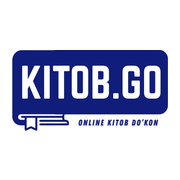
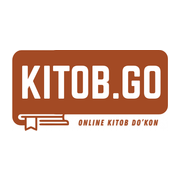
logotipni sayt rangiga moslashtirish
Belgi manbada to'q ko'k (#111D7A) edi — krem + terrakota saytda uchinchi rang
bo'lib turardi. Endi u cocoa (#A34A24), ya'ni havolalar va narxlar bilan bir xil
urg'u rangida; ichidagi oq yozuv o'z holicha qoldi.

Rang almashtirish silliqlangan chetlarni buzmaydi: har bir piksel oq va ko'kning
aralashmasi sifatida o'lchanib, o'sha nisbat oq ↔ yangi rang aralashmasiga
ko'chiriladi. Favicon va apple-touch-icon ham qaytadan chiqarildi.

Endi logotip palitraga bog'liq: cocoa qiymati o'zgarsa, rasmni ham qayta
chiqarish kerak — PROGRESS.md da usuli bilan yozib qo'yildi.

Changed region(s): [[0.0556, 0.2778, 0.9444, 0.7222]]

diff --git a/PROGRESS.md b/PROGRESS.md
@@ -63,9 +63,7 @@ katta-harfli yorliqlar uchun `.micro-label` (sans, 11.5px, letter-spacing 1.0) v
 ### Logotip
 
 [components/layout/Logo.tsx](components/layout/Logo.tsx) → `public/images/logo.png`
-(384×200, shaffof fon). Manba `C:\Users\USER\Desktop\logo.PNG` (500×500, **oq** fonli):
-oq fon chekkadan flood fill bilan olib tashlangan — harflar ichidagi oq saqlanib qolgan —
-va chetlari kesilgan. Xuddi shu manbadan `app/icon.png` (favicon, 512) va
+(384×200, shaffof fon). Xuddi shu manbadan `app/icon.png` (favicon, 512) va
 `app/apple-icon.png` (180, oq fonli — Apple shaffoflikni qora qiladi) chiqarilgan;
 Next ularni fayl nomiga qarab o'zi ulaydi, `metadata.icons` yozilmagan.
 
@@ -73,9 +71,23 @@ O'lchamlar: shapkada 52px balandlik (100px kenglik), mobil shapkada 40px (77px),
 footerda 52px. Yozuv rasm ichida, shuning uchun yonida matn takrorlanmaydi — nomni `alt`
 beradi.
 
-> **Logotipdagi to'q ko'k `#111D7A` — palitrada yo'q va ataylab shunday.** Bu brend belgisi,
-> sayt ranglariga bo'yalmaydi. Krem (`navSurface`) va oq yuzalarda turadi; to'q fonga
-> qo'yish kerak bo'lsa, alohida (oq) variant kerak — hozir bunday joy yo'q.
+**Manbadan qanday olingan.** `C:\Users\USER\Desktop\logo.PNG` — 500×500, **oq** fonli,
+belgining o'zi to'q ko'k `#111D7A`. Ikki amal bajarilgan (skript:
+`scratchpad/extract-logo.js`, repoda saqlanmagan — qaytadan kerak bo'lsa shu tavsifdan
+tiklanadi):
+
+1. Oq fon **chekkadan flood fill** bilan olib tashlangan, ya'ni faqat tashqi oq yo'qolgan —
+   harflar ichidagi oq joyida qolgan.
+2. Har bir piksel oq va ko'kning aralashmasi sifatida qaralib, aralashuv darajasi
+   `k = (255 − min(R,G,B)) / (255 − 17)` bilan o'lchangan; fon tomonda `k` alfaga,
+   kontent tomonda esa oq ↔ brend rangi orasidagi aralashmaga aylantirilgan. Shu tufayli
+   silliqlangan chetlar saqlanib qolgan, "arra tish" chiqmagan.
+
+> **Belgi sayt rangiga bo'yalgan: `cocoa` (#A34A24), manbadagi to'q ko'k emas** —
+> foydalanuvchi so'raganidek. Ya'ni logotip ham palitraning bir qismi: `cocoa` qiymati
+> o'zgarsa, `public/images/logo.png` ni ham qayta chiqarish kerak (aks holda belgi
+> saytdan orqada qoladi). Krem (`navSurface`) va oq yuzalar uchun mo'ljallangan; to'q
+> fonga qo'yish kerak bo'lsa, oq variant alohida chiqariladi.
 
 ### Navigatsiya qoidasi: bitta havola — bitta joy
 
